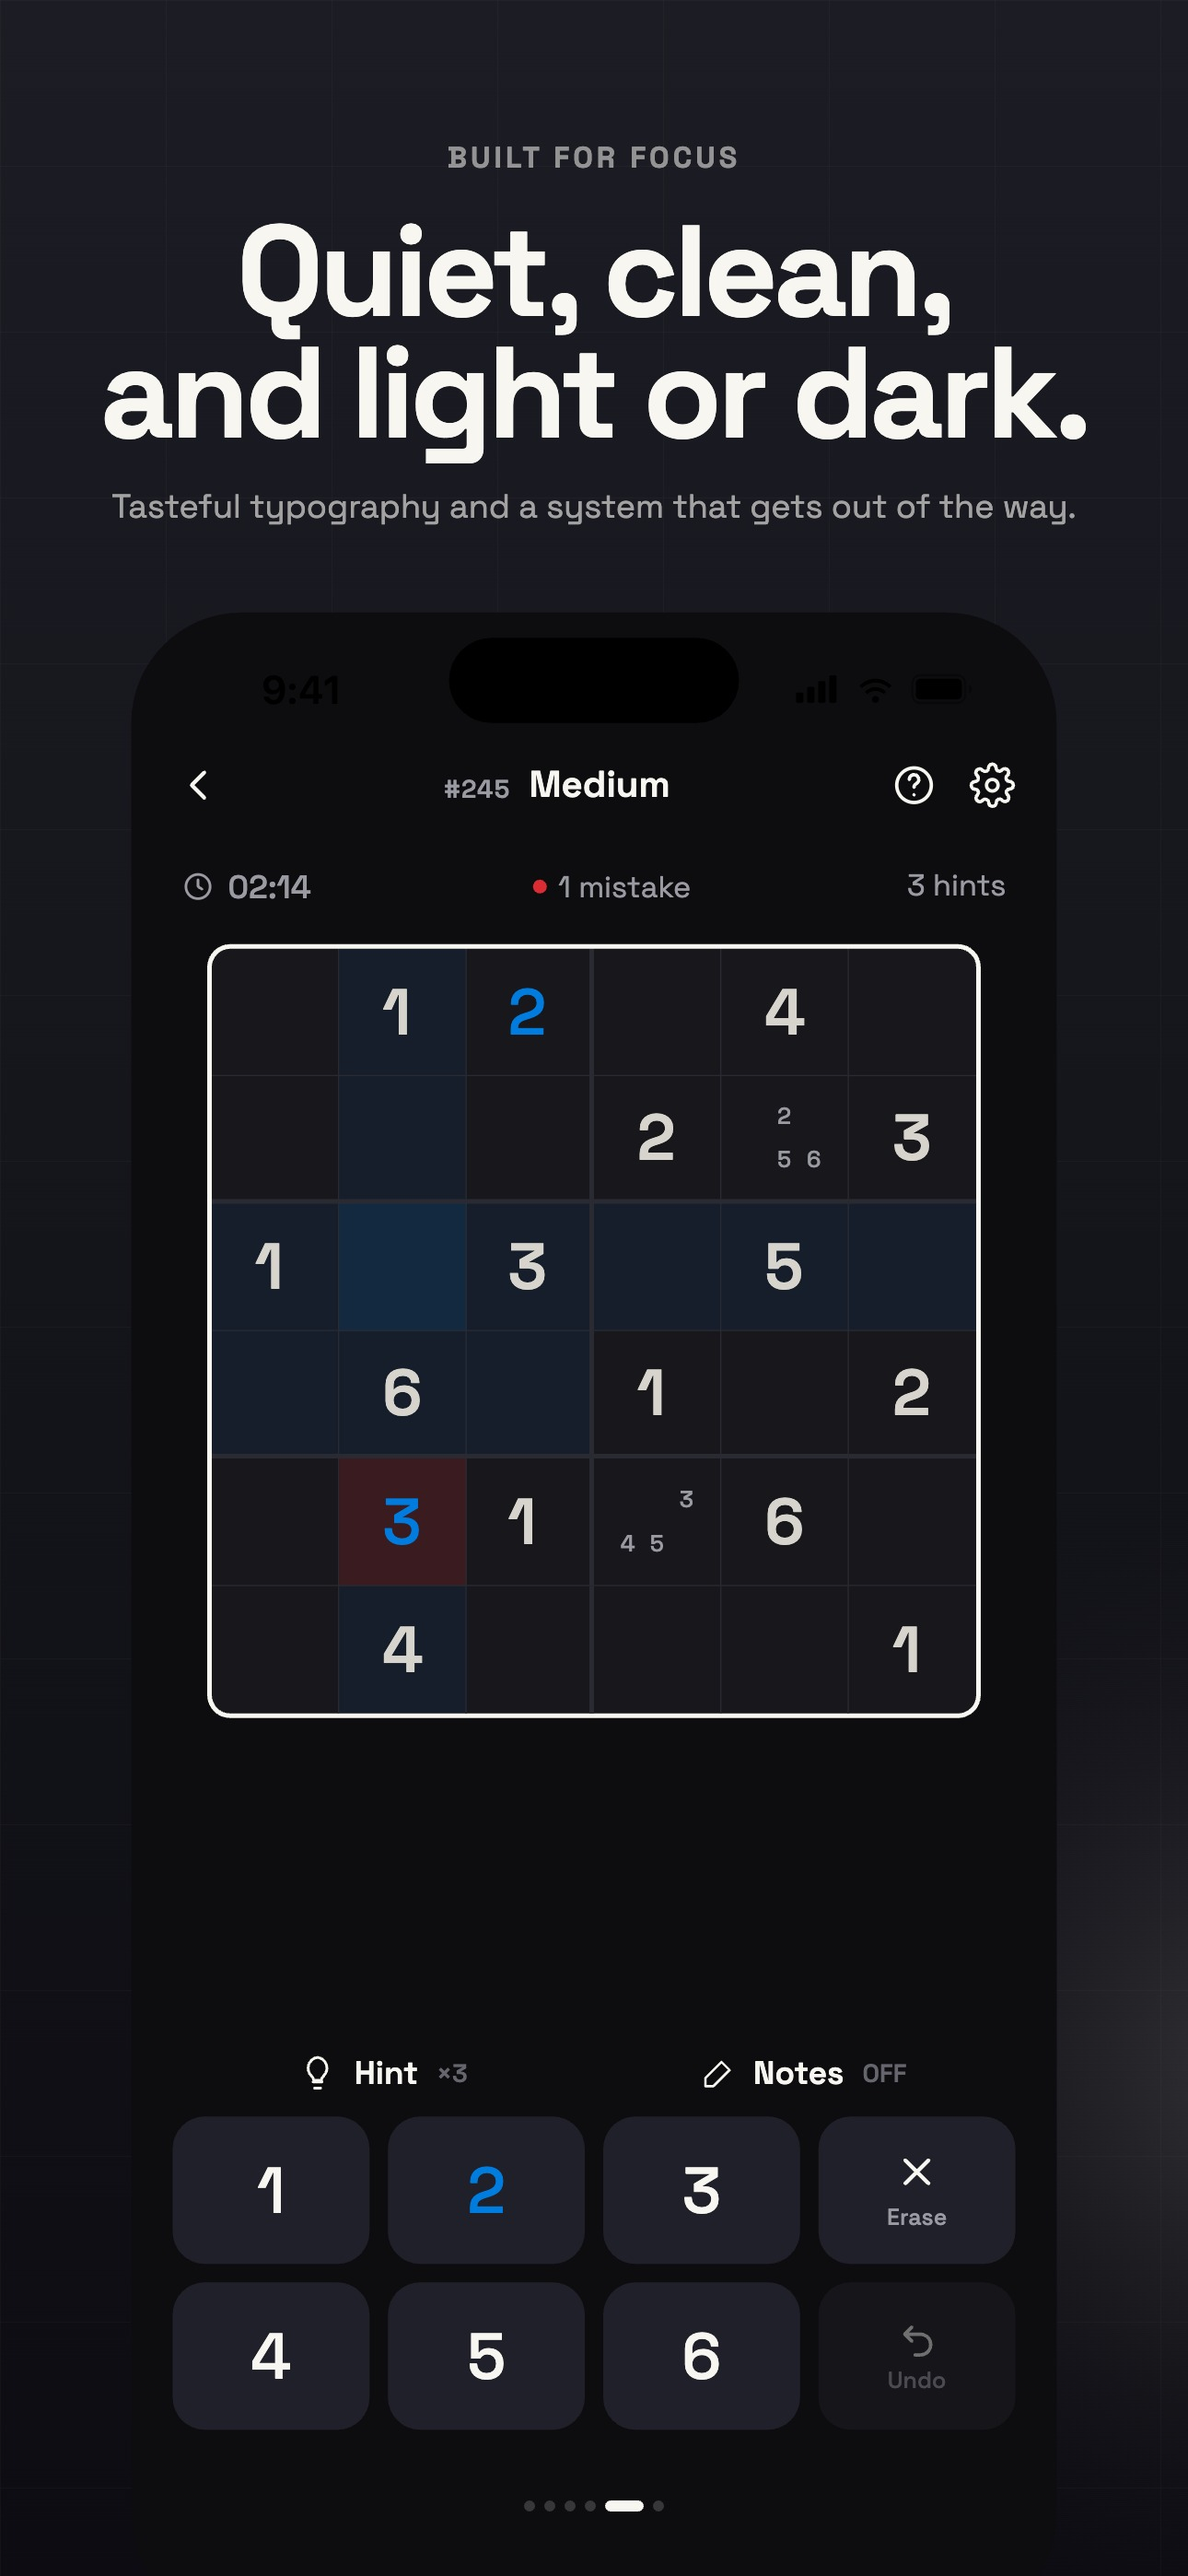
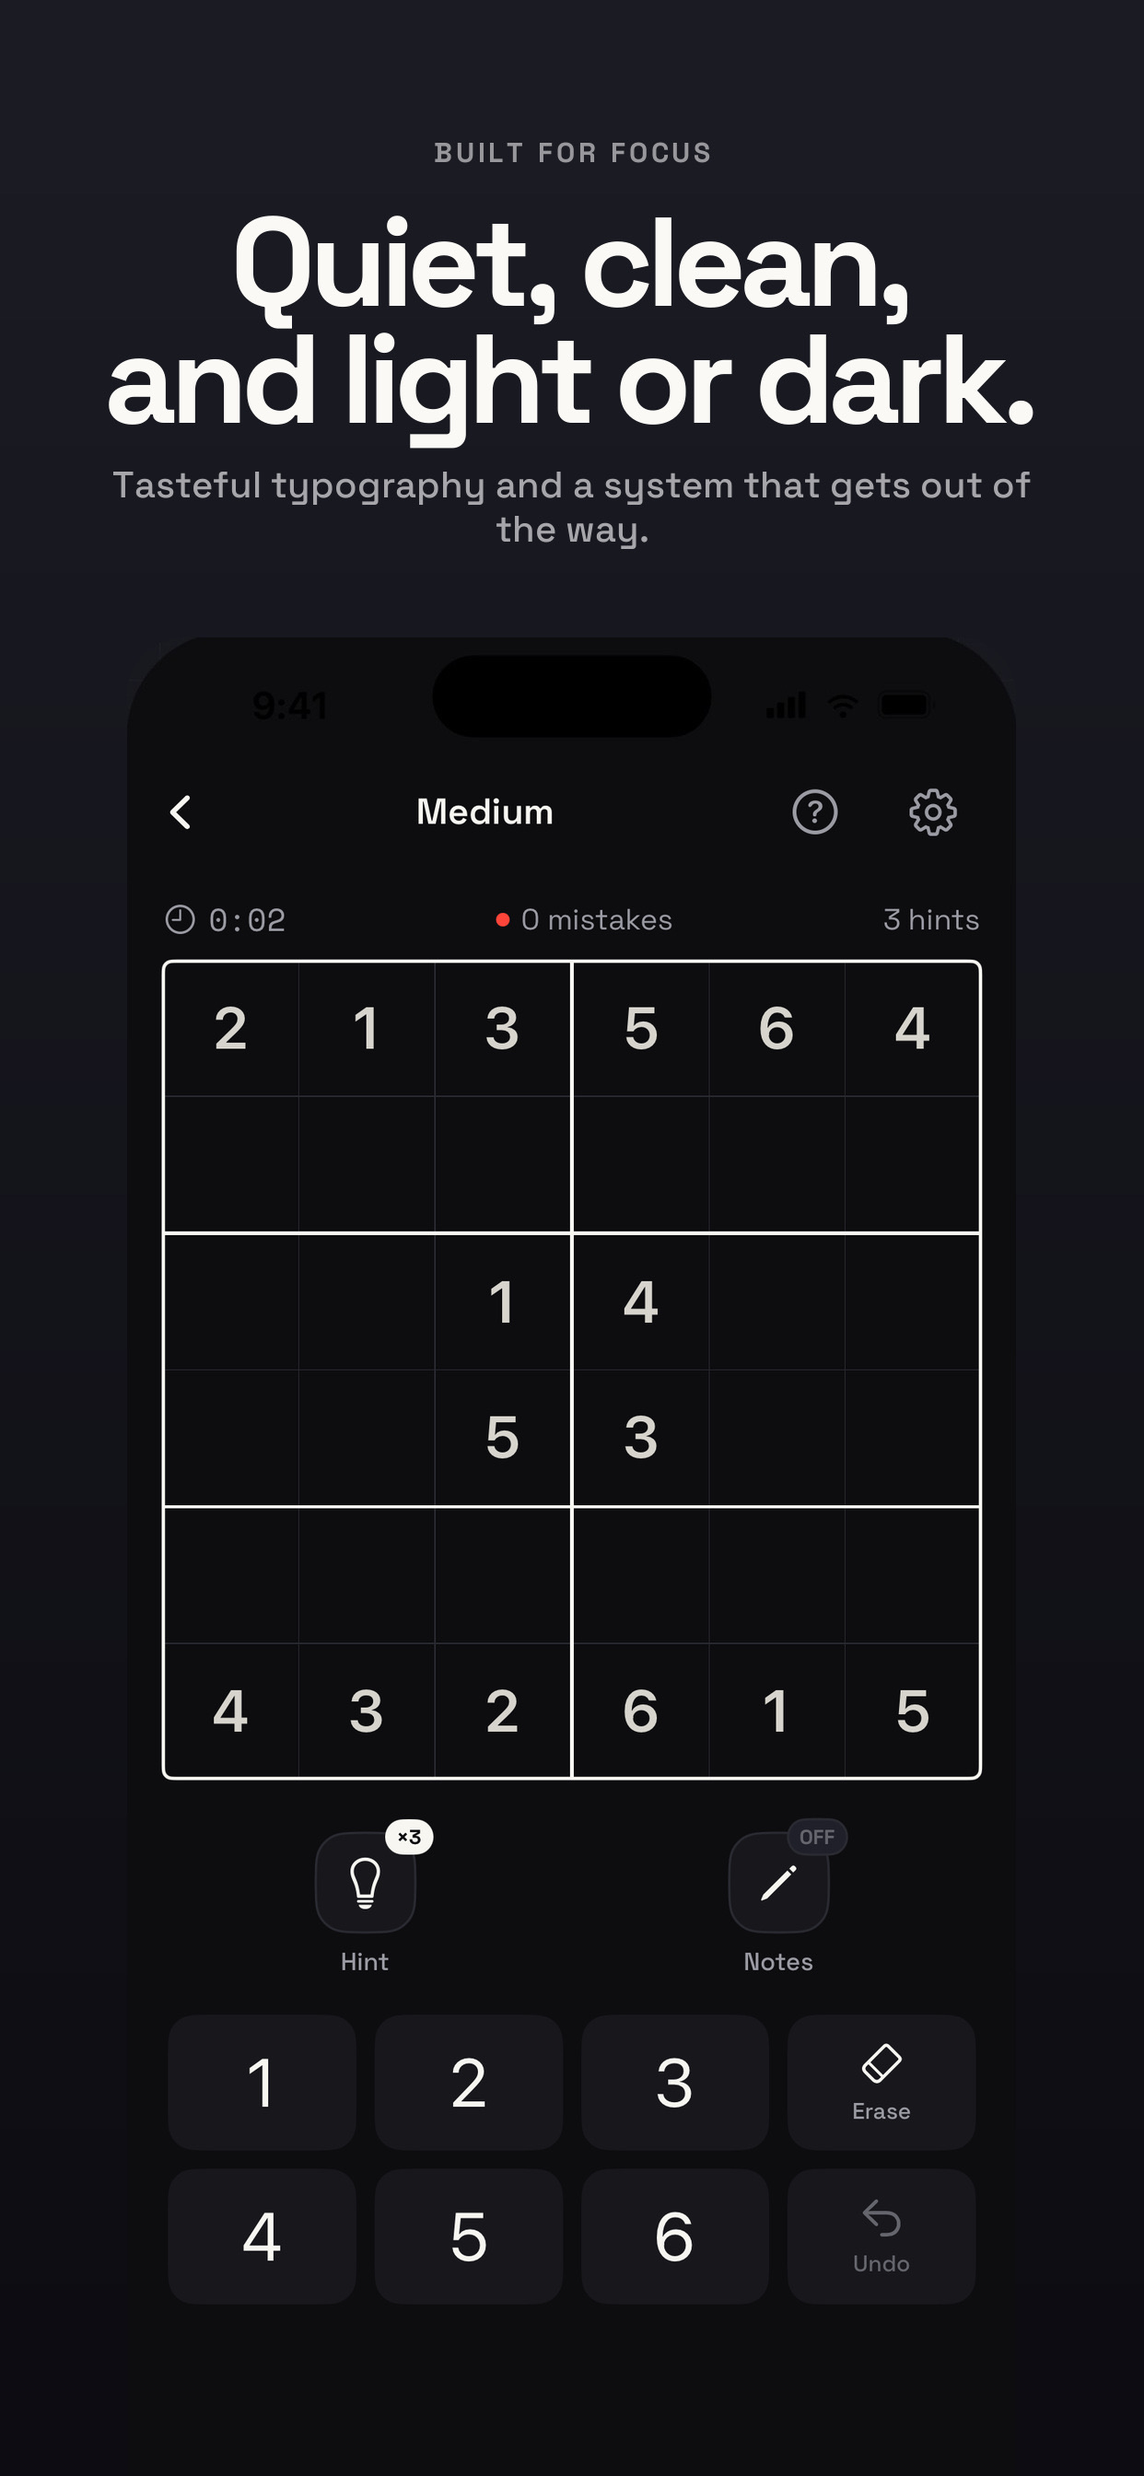
update new landing page for Mini sudoku

diff --git a/mini-sudoku/index.html b/mini-sudoku/index.html
@@ -3,8 +3,11 @@
 <head>
   <meta charset="UTF-8" />
   <meta name="viewport" content="width=device-width, initial-scale=1.0" />
-  <title>Mini Sudoku — Daily 6×6 Number Puzzle</title>
-  <meta name="description" content="A fresh 6×6 Sudoku puzzle every morning. Four difficulty levels, daily streaks, hints, and a clean ad-free design. One-time unlock, no subscription." />
+  <title>Mini Sudoku — Daily 6×6 &amp; Classic 9×9 Sudoku</title>
+  <meta name="description" content="Quick 6×6 Sudoku for daily play, plus Classic 9×9 when you want more. Four levels on each board, daily streaks, notes, hints and a clean ad-free design. One-time unlock, no subscription." />
+
+  <link rel="icon" type="image/png" href="app-icon.png" />
+  <link rel="apple-touch-icon" href="app-icon.png" />
 
   <!-- Fonts -->
   <link rel="preconnect" href="https://fonts.googleapis.com" />
@@ -71,9 +74,7 @@
     }
     .nav-logo .icon {
       width: 32px; height: 32px; border-radius: 8px;
-      background: linear-gradient(135deg, #B97D10, #E8AA30);
-      display: flex; align-items: center; justify-content: center;
-      font-size: 16px;
+      box-shadow: 0 0 0 1px rgba(0,0,0,0.08);
     }
     .btn-nav {
       display: inline-flex; align-items: center; gap: 6px;
@@ -259,6 +260,33 @@
     .hm-cell.done-expert { background: #7C3AED; }
     .hm-cell.future      { background: #F0EDE8; }
 
+    /* ── Classic 9×9 ──────────────────────────────────── */
+    .classic { padding: 96px 0; background: linear-gradient(160deg, #EFF6FF 0%, #F8FBFF 100%); }
+    .classic-inner {
+      display: grid; grid-template-columns: 1fr 1fr;
+      gap: 64px; align-items: center;
+    }
+    .classic h2 {
+      font-size: clamp(28px, 4vw, 42px);
+      font-weight: 800; letter-spacing: -1px; line-height: 1.15;
+      margin-bottom: 20px;
+    }
+    .classic h2 span { color: #2563EB; }
+    .classic p { font-size: 17px; line-height: 1.65; color: var(--mid); }
+    .classic-list { list-style: none; margin-top: 28px; display: flex; flex-direction: column; gap: 14px; }
+    .classic-list li { display: flex; gap: 12px; font-size: 15px; line-height: 1.5; color: var(--mid); }
+    .classic-list li strong { color: var(--dark); }
+    .classic-list li::before {
+      content: "✓"; flex-shrink: 0;
+      width: 22px; height: 22px; border-radius: 50%;
+      background: rgba(37,99,235,0.12); color: #2563EB;
+      display: flex; align-items: center; justify-content: center;
+      font-size: 12px; font-weight: 800; margin-top: 1px;
+    }
+    .tag.blue { color: #2563EB; background: rgba(37,99,235,0.10); }
+    .classic-shot { display: flex; justify-content: center; }
+    .classic-shot .phone-frame { width: 260px; filter: drop-shadow(0 24px 60px rgba(37,99,235,0.18)); }
+
     /* ── Difficulties ─────────────────────────────────── */
     .diff-section { padding: 96px 0; }
     .diff-grid {
@@ -333,8 +361,7 @@
     }
     footer .foot-logo .icon {
       width: 28px; height: 28px; border-radius: 7px;
-      background: linear-gradient(135deg, #B97D10, #E8AA30);
-      display: flex; align-items: center; justify-content: center; font-size: 14px;
+      box-shadow: 0 0 0 1px rgba(0,0,0,0.08);
     }
     footer p { font-size: 13px; color: var(--light); }
     footer a { color: var(--light); text-decoration: none; }
@@ -349,6 +376,7 @@
       .features-grid  { grid-template-columns: 1fr 1fr; }
       .screens-grid   { grid-template-columns: repeat(2, 1fr); }
       .daily-inner    { grid-template-columns: 1fr; }
+      .classic-inner  { grid-template-columns: 1fr; }
       .diff-grid      { grid-template-columns: 1fr 1fr; }
     }
     @media (max-width: 560px) {
@@ -365,7 +393,7 @@
 <nav>
   <div class="container nav-inner">
     <a class="nav-logo" href="#">
-      <div class="icon">♟</div>
+      <img class="icon" src="app-icon.png" alt="" />
       Mini Sudoku
     </a>
     <a class="btn-nav" href="https://apps.apple.com/app/id6770221466" target="_blank">
@@ -381,9 +409,9 @@
 <section class="hero">
   <div class="container hero-inner">
     <div>
-      <div class="tag">Free to try · No subscription</div>
-      <h1>The <span>6×6</span> puzzle<br>built for daily play.</h1>
-      <p>Smaller grid, same satisfying logic. Solve a fresh puzzle every morning — track your streak, beat your time, and grow sharper every day.</p>
+      <div class="tag">New in 2.0 · Classic 9×9</div>
+      <h1>Quick <span>6×6</span>.<br>Classic <span>9×9</span>.<br>Daily habit.</h1>
+      <p>Play a quick 6×6 puzzle on your coffee break, or switch to the full 9×9 grid when you want a longer think. A fresh daily puzzle, streaks, notes and hints. No ads.</p>
       <div class="hero-actions">
         <a class="btn-primary" href="https://apps.apple.com/app/id6770221466" target="_blank">
           <svg viewBox="0 0 24 24" fill="currentColor">
@@ -391,14 +419,14 @@
           </svg>
           Download on the App Store
         </a>
-        <span class="hero-note"><strong>7 days free</strong> · then $2.99 once, forever</span>
+        <span class="hero-note"><strong>3 days free</strong> · then $2.99 once, forever</span>
       </div>
     </div>
 
     <div class="hero-screens">
       <div class="phone-wrap back">
         <div class="phone-frame">
-          <img src="mini-sudoku-screenshots/screen-game.jpg" alt="Game screen" />
+          <img src="mini-sudoku-screenshots/screen-classic.jpg" alt="Classic 9×9 game screen" />
         </div>
       </div>
       <div class="phone-wrap front">
@@ -414,6 +442,7 @@
 <div class="strip">
   <div class="strip-inner">
     <span>🧩 <em>6×6 Grid</em></span>
+    <span>🔢 <em>Classic 9×9</em></span>
     <span>🔥 <em>Daily Streaks</em></span>
     <span>💡 <em>Smart Hints</em></span>
     <span>🚫 <em>No Ads</em></span>
@@ -423,6 +452,7 @@
     <span>👑 <em>One-Time Unlock</em></span>
     <!-- duplicate for seamless loop -->
     <span>🧩 <em>6×6 Grid</em></span>
+    <span>🔢 <em>Classic 9×9</em></span>
     <span>🔥 <em>Daily Streaks</em></span>
     <span>💡 <em>Smart Hints</em></span>
     <span>🚫 <em>No Ads</em></span>
@@ -450,12 +480,12 @@
       <div class="feat-card">
         <div class="feat-icon" style="background:#F0FFF5">⚡</div>
         <h3>Quick to Solve</h3>
-        <p>The 6×6 format takes 2–15 minutes — perfect for a coffee break or commute.</p>
+        <p>A 6×6 puzzle takes a few minutes — perfect for a coffee break or commute.</p>
       </div>
       <div class="feat-card">
         <div class="feat-icon" style="background:#FAF5FF">🏆</div>
         <h3>Four Difficulty Levels</h3>
-        <p>Easy through Expert. Grow at your own pace or go straight to the deep end.</p>
+        <p>Easy through Expert on both boards. Grow at your own pace or go straight to the deep end.</p>
       </div>
       <div class="feat-card">
         <div class="feat-icon" style="background:#EFF6FF">📝</div>
@@ -476,19 +506,42 @@
   </div>
 </section>
 
+<!-- ── Classic 9×9 ───────────────────────────────────── -->
+<section class="classic" id="classic">
+  <div class="container classic-inner">
+    <div>
+      <div class="tag blue">New · Classic 9×9</div>
+      <h2>Ready for more?<br>Go <span>full size</span>.</h2>
+      <p>Switch from Mini to Classic on the home screen and play the full 9×9 Sudoku, with the same clean design you already know.</p>
+      <ul class="classic-list">
+        <li><span><strong>Four levels of its own</strong>, tuned for the bigger grid, from Easy to Expert.</span></li>
+        <li><span><strong>Notes, hints, undo and auto-check</strong>, just like Mini.</span></li>
+        <li><span><strong>Pick up where you left off.</strong> Your Classic game is saved if you're interrupted.</span></li>
+        <li><span><strong>Its own stats and Game Center leaderboards</strong>, so 9×9 times never mix with 6×6.</span></li>
+        <li><span><strong>A short tutorial</strong> walks you through the 9×9 rules.</span></li>
+      </ul>
+    </div>
+    <div class="classic-shot">
+      <div class="phone-frame">
+        <img src="mini-sudoku-screenshots/screen-classic.jpg" alt="Classic 9×9 puzzle in progress" />
+      </div>
+    </div>
+  </div>
+</section>
+
 <!-- ── Screenshots ───────────────────────────────────── -->
 <section class="screens-section">
   <div class="container">
     <div class="section-header">
       <div class="tag">In-App Screenshots</div>
       <h2>Clean. Fast. Focused.</h2>
-      <p>Light and dark mode — looks great on any iPhone.</p>
+      <p>Mini and Classic, light and dark — on iPhone and iPad.</p>
     </div>
     <div class="screens-grid">
       <div class="screen-card"><img src="mini-sudoku-screenshots/screen-home.jpg" alt="Home screen" /></div>
-      <div class="screen-card"><img src="mini-sudoku-screenshots/screen-game.jpg" alt="Game — light mode" /></div>
-      <div class="screen-card"><img src="mini-sudoku-screenshots/screen-dark.jpg" alt="Game — dark mode" /></div>
-      <div class="screen-card"><img src="mini-sudoku-screenshots/screen-win.jpg" alt="Win screen" /></div>
+      <div class="screen-card"><img src="mini-sudoku-screenshots/screen-classic.jpg" alt="Classic 9×9 game" /></div>
+      <div class="screen-card"><img src="mini-sudoku-screenshots/screen-game.jpg" alt="Mini 6×6 game — light mode" /></div>
+      <div class="screen-card"><img src="mini-sudoku-screenshots/screen-dark.jpg" alt="Mini 6×6 game — dark mode" /></div>
     </div>
   </div>
 </section>
@@ -550,32 +603,32 @@
     <div class="section-header">
       <div class="tag">Difficulty</div>
       <h2>Play at your level.</h2>
-      <p>Four carefully tuned difficulties — from first-timer to seasoned solver.</p>
+      <p>Four carefully tuned levels on each board — from first-timer to seasoned solver.</p>
     </div>
     <div class="diff-grid">
       <div class="diff-card diff-easy">
         <div class="level">Easy</div>
         <h3>🌱 Beginner</h3>
         <p>More given cells, relaxed logic. Perfect for learning the rules.</p>
-        <div class="time">⏱ 2–4 min avg</div>
+        <div class="time">⏱ Mini 1–3 min · Classic 5–8 min</div>
       </div>
       <div class="diff-card diff-medium">
         <div class="level">Medium</div>
         <h3>⚡ Challenge</h3>
         <p>Requires a little more thought. A satisfying daily workout.</p>
-        <div class="time">⏱ 5–8 min avg</div>
+        <div class="time">⏱ Mini 3–5 min · Classic 8–12 min</div>
       </div>
       <div class="diff-card diff-hard">
         <div class="level">Hard</div>
         <h3>🔥 Advanced</h3>
         <p>Fewer clues, deeper chains. Think two steps ahead.</p>
-        <div class="time">⏱ 8–14 min avg</div>
+        <div class="time">⏱ Mini 5–7 min · Classic 12–20 min</div>
       </div>
       <div class="diff-card diff-expert">
         <div class="level">Expert</div>
         <h3>👑 Master</h3>
         <p>Minimal given cells. Maximum satisfaction when you crack it.</p>
-        <div class="time">⏱ 15+ min avg</div>
+        <div class="time">⏱ Mini 7+ min · Classic 20+ min</div>
       </div>
     </div>
   </div>
@@ -594,17 +647,18 @@
       <div class="price">$2.99</div>
       <div class="price-sub">One-time purchase · No recurring charges</div>
       <ul class="pricing-perks">
-        <li>All four difficulty levels</li>
+        <li>Mini 6×6 and Classic 9×9</li>
+        <li>All four difficulty levels on both boards</li>
         <li>Unlimited daily puzzles &amp; streaks</li>
         <li>Hints — use as many as you need</li>
         <li>Full statistics &amp; heatmap history</li>
         <li>Ad-free, always</li>
-        <li>7-day free trial — no credit card needed</li>
+        <li>3-day free trial — no credit card needed</li>
       </ul>
       <a class="btn-gold" href="https://apps.apple.com/app/id6770221466" target="_blank">
         Download Free on App Store
       </a>
-      <div class="pricing-note">Available on iPhone · iOS 17+</div>
+      <div class="pricing-note">Available on iPhone &amp; iPad · iOS 17+</div>
     </div>
   </div>
 </section>
@@ -613,7 +667,7 @@
 <footer>
   <div class="container">
     <a class="foot-logo" href="#">
-      <div class="icon">♟</div>
+      <img class="icon" src="app-icon.png" alt="" />
       Mini Sudoku
     </a>
     <p>Made with care by <strong>Hanmin Studio</strong> &nbsp;·&nbsp;
